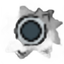
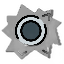
update

diff --git a/monster_shooter/player.py b/monster_shooter/player.py
@@ -8,23 +8,20 @@ def get_player_info():
     strength = 25
     max_ammo = 20
     max_reload_time = 100
-    max_picture_wait_time = 300
-    return name, max_health, strength, max_ammo, max_reload_time, max_picture_wait_time
+    return name, max_health, strength, max_ammo, max_reload_time
 
 class Player:
-    def __init__(self, name, max_health, strength, max_ammo, max_reload_time, max_picture_wait_time, screen_width, screen_height):
+    def __init__(self, name, max_health, strength, max_ammo, max_reload_time):
         self.name = name
         self.max_health = max_health
         self.cur_health = max_health
-        self.health_bar_length = screen_width / 10
+        self.health_bar_length = SCREEN_WIDTH / 10
         self.health_ratio = self.max_health / self.health_bar_length
         self.strength = strength
         self.max_ammo = max_ammo
         self.ammo = max_ammo
         self.max_reload_time = max_reload_time
         self.reload_time = max_reload_time
-        self.max_picture_wait_time = max_picture_wait_time
-        self.picture_wait_time = 0
         self.aim_pic = pygame.image.load("./pictures/aim.png")
         self.shoot_sfx = pygame.mixer.Sound("./sound_effect/shoot_sfx.mp3")
         self.shoot_sfx.set_volume(0.3)
@@ -32,6 +29,10 @@ class Player:
         self.damage_sfx = pygame.mixer.Sound("./sound_effect/damage_sfx.mp3")
         self.bullet_pic = pygame.image.load("./pictures/bullet_hole.png")
         self.bullet_pos = None
+        self.skill_pic = pygame.image.load("./pictures/camera.png")
+        self.health_pic = pygame.image.load("./pictures/health_pic.png")
+        self.strength_pic = pygame.image.load("./pictures/atk_pic.png")
+        self.ammo_pic = pygame.image.load("./pictures/ammo_pic.png")
 
     def is_alive(self):
         return self.cur_health > 0
@@ -39,16 +40,16 @@ class Player:
     def aim_display(self, screen, player_pos):
         screen.blit(self.aim_pic, (player_pos[0]-50, player_pos[1]-50))
     
-    def shoot(self, shoot_flag, monster_pos, monster_pic, player_pos, monster_type, weak_point_pos, weak_point_size):
+    def shoot(self, shoot_flag, monster, player_pos):
         if self.ammo > 0 and shoot_flag:
             self.shoot_sfx.play()
             self.bullet_pos = player_pos
             self.ammo -= 1
-            if player_pos[0] >= monster_pos[0] and player_pos[0] <= monster_pos[0] + monster_pic.get_rect().size[0] and player_pos[1] >= monster_pos[1] and player_pos[1] <= monster_pos[1] + monster_pic.get_rect().size[1]:
-                if monster_type == 0:
+            if player_pos[0] >= monster.pos[0] and player_pos[0] <= monster.pos[0] + monster.pic.get_rect().size[0] and player_pos[1] >= monster.pos[1] and player_pos[1] <= monster.pos[1] + monster.pic.get_rect().size[1]:
+                if monster.type == 0:
                     return self.strength
                 else:
-                    if player_pos[0] >= weak_point_pos[0] and player_pos[0] <= weak_point_pos[0] + weak_point_size and player_pos[1] >= weak_point_pos[1] and player_pos[1] <= weak_point_pos[1] + weak_point_size:
+                    if player_pos[0] >= monster.weak_point_pos[0] and player_pos[0] <= monster.weak_point_pos[0] + monster.weak_point_size and player_pos[1] >= monster.weak_point_pos[1] and player_pos[1] <= monster.weak_point_pos[1] + monster.weak_point_size:
                         return self.strength * 3
                     else:
                         return self.strength
@@ -80,21 +81,16 @@ class Player:
         self.max_reload_time += amount
 
     def take_picture(self, frame):
-        if self.picture_wait_time >= 0:
-            if self.picture_wait_time == 0:
-                pygame.image.save(frame, f"./pictures/{time.time()}.png")
-                self.picture_wait_time = self.max_picture_wait_time
-            self.picture_wait_time -= 1
+        pygame.image.save(frame, f"./pictures/{time.time()}.png")
 
-    def display_info(self, screen, screen_width, screen_height):
+    def display_info(self, screen, picture_wait_time):
         font = pygame.font.Font(None, 36)
-        health_text = font.render(f"Health: ", True, BLUE)
-        screen.blit(health_text, (10, 10))
-        pygame.draw.rect(screen, RED, (health_text.get_width() + 10, 10, self.cur_health / self.health_ratio, int(screen_height / 32)))
-        pygame.draw.rect(screen, BLACK, (health_text.get_width() + 10, 10, self.health_bar_length, int(screen_height / 32)), 4)
-
-        atk_text = font.render(f"Attack: {self.strength}", True, BLUE)
-        screen.blit(atk_text, (10, 50))
+        screen.blit(self.health_pic, (10, 10))
+        pygame.draw.rect(screen, RED, (self.health_pic.get_rect().size[0] + 10, 10 + self.health_pic.get_rect().size[1]/2 - int(SCREEN_HEIGHT / 64) , self.cur_health / self.health_ratio, int(SCREEN_HEIGHT / 32)))
+        pygame.draw.rect(screen, BLACK, (self.health_pic.get_rect().size[0] + 10, 10 + self.health_pic.get_rect().size[1]/2 - int(SCREEN_HEIGHT / 64) , self.cur_health / self.health_ratio, int(SCREEN_HEIGHT / 32)), 4)
+        screen.blit(self.strength_pic, (10, 20 + self.health_pic.get_rect().size[1]))
+        atk_text = font.render(f"{self.strength}", True, BLUE)
+        screen.blit(atk_text, (10 + self.strength_pic.get_rect().size[0] + 10, 20 + self.health_pic.get_rect().size[1] + self.strength_pic.get_rect().size[1]/2 - atk_text.get_height()/2))
         if self.ammo == 0:
             self.reload_time -= 1
             if self.reload_time == 0:
@@ -106,7 +102,14 @@ class Player:
             screen.blit(reload_text, (screen.get_size()[0] - reload_text.get_width() - 10, 10))
         else:              
             font = pygame.font.Font(None, 36)
-            ammo_text = font.render(f"Ammo: {self.ammo} / {self.max_ammo}", True, RED)
-            screen.blit(ammo_text, (screen.get_size()[0] - ammo_text.get_width() - 10, 10))
-        if self.bullet_pos and self.bullet_pos[0] >= 0 and self.bullet_pos[1] >= 0 and self.bullet_pos[0] <= screen_width and self.bullet_pos[1] <= screen_height:
-            screen.blit(self.bullet_pic, (self.bullet_pos[0] - self.bullet_pic.get_rect().size[0] / 2, self.bullet_pos[1] - self.bullet_pic.get_rect().size[1] / 2))
+            screen.blit(self.ammo_pic, (screen.get_size()[0] - self.ammo_pic.get_rect().size[0] - 10, 10))
+            ammo_text = font.render(f"{self.ammo} / {self.max_ammo}", True, RED)
+            screen.blit(ammo_text, (screen.get_size()[0] - ammo_text.get_width() - 10, 20 + self.ammo_pic.get_rect().size[1]))
+        if self.bullet_pos:
+            if self.bullet_pos[0] >= 0 and self.bullet_pos[1] >= 0 and self.bullet_pos[0] <= SCREEN_WIDTH and self.bullet_pos[1] <= SCREEN_HEIGHT:
+                screen.blit(self.bullet_pic, (self.bullet_pos[0] - self.bullet_pic.get_rect().size[0] / 2, self.bullet_pos[1] - self.bullet_pic.get_rect().size[1] / 2))
+        skill_pos = (SCREEN_WIDTH - 5*self.skill_pic.get_rect().size[0]/4, SCREEN_HEIGHT- 5*self.skill_pic.get_rect().size[1]/4)
+        screen.blit(self.skill_pic, skill_pos)
+        picture_text = font.render(f"{int(picture_wait_time/30)} s", True, BLUE)
+        screen.blit(picture_text, (skill_pos[0] + self.skill_pic.get_rect().size[0]/2 - picture_text.get_width()/2, skill_pos[1] - picture_text.get_height() - 10))
+        

diff --git a/monster_shooter/game.py b/monster_shooter/game.py
@@ -14,13 +14,22 @@ post_url = "http://10.10.2.97:8000/game_ended"
 battle_url = "http://10.10.2.97:8000/is_battle"
 
 def fetch_monster_info():
-    monsters_info = req.get(monsters_info_http)
-    return monsters_info.json()
+    try:
+        monsters_info = req.get(monsters_info_http)
+        return monsters_info.json()
+    except:
+        return []
 
 def update_player_info(player):
-    player_info = req.get(player_info_http)
+    try:
+        player_info = req.get(player_info_http)
+    except:
+        player.heal(0)
+        player.gain_strength(0)
+        player.gain_max_ammo(0)
+        player.gain_max_reload_time(0)
+        return
     player_info = player_info.json()[0]
-    print(player_info)
     player.heal(player_info["HP"])
     player.gain_strength(player_info["ATK"])
     player.gain_max_ammo(player_info["MAXAMMO"])
@@ -36,21 +45,20 @@ camera_on = True
 if camera_on:
     cap = cv2.VideoCapture(droid_cam_url) #If you are using DroidCam
     fps = cap.get(cv2.CAP_PROP_FPS)
-    print("fps:", fps)
     cap.set(cv2.CAP_PROP_FPS, FPS)
 
 
 pygame.init()
-screen = pygame.display.set_mode((0, 0), pygame.FULLSCREEN)
-SCREEN_WIDTH, SCREEN_HEIGHT = pygame.display.get_surface().get_size()
+screen = pygame.display.set_mode((SCREEN_WIDTH, SCREEN_HEIGHT))
 pygame.display.set_caption('Monster Shooter')
 clock = pygame.time.Clock()
 
 def main():
     running = True
-    player = Player(*get_player_info(), SCREEN_WIDTH, SCREEN_HEIGHT)
+    player = Player(*get_player_info())
     shoot_flag = True
     fetch_count_down = 0
+    picture_wait_time = 0
     monster_list = []
     cur_monster_index = 0
     idle_flag = True
@@ -73,16 +81,22 @@ def main():
             screen.fill(WHITE)
 
         if gesture == 'observe':
-            player.take_picture(frame)
+            if picture_wait_time == 0:
+                player.take_picture(frame)
+                picture_wait_time = 300
+        if picture_wait_time > 0:        
+            picture_wait_time -= 1
 
         if idle_flag:
             if fetch_count_down == 0:
                 update_player_info(player)
-                is_battle = req.get(battle_url)
-                print(is_battle.text)
+                try:
+                    is_battle = req.get(battle_url)
+                except:
+                    is_battle = "False"
                 if is_battle.text == "True":
                     monster_json = fetch_monster_info()
-                    monster_list = get_monster_info(monster_json, SCREEN_WIDTH, SCREEN_HEIGHT)
+                    monster_list = get_monster_info(monster_json)
                     cur_monster_index = 0
                     idle_flag = False
                 fetch_count_down = 60
@@ -94,15 +108,15 @@ def main():
                 player_pos = pos
                 player.aim_display(screen, player_pos)
                 if gesture == 'shoot':
-                    player.shoot_air(shoot_flag, player_pos)
+                    player.shoot_air(player_pos, shoot_flag)
                     shoot_flag = False
                 else:
                     shoot_flag = True
-            player.display_info(screen, SCREEN_WIDTH, SCREEN_HEIGHT)
+            player.display_info(screen, picture_wait_time)
         else:
             monster = monster_list[cur_monster_index]
             if monster.is_alive():
-                monster.display(screen, SCREEN_WIDTH, SCREEN_HEIGHT)
+                monster.display(screen)
                 player.take_damage(monster.attack(player.cur_health))
                 if not player.is_alive():
                     idle_flag = True
@@ -117,14 +131,14 @@ def main():
                     continue
             if gesture == 'aim' or gesture == 'shoot':
                 player_pos = pos
-                monster.move(player_pos, SCREEN_WIDTH, SCREEN_HEIGHT)
+                monster.move(player_pos)
                 player.aim_display(screen, player_pos)
                 if gesture == 'shoot':
-                    monster.take_damage(player.shoot(shoot_flag, monster.pos, monster.pic, player_pos, monster.monster_type, monster.weak_point_pos, monster.weak_point_size))
+                    monster.take_damage(player.shoot(shoot_flag, monster, player_pos))
                     shoot_flag = False
                 else:
                     shoot_flag = True
-            player.display_info(screen, SCREEN_WIDTH, SCREEN_HEIGHT)
+            player.display_info(screen, picture_wait_time)
 
         pygame.display.flip()
 

diff --git a/monster_shooter/img_matting.py b/monster_shooter/img_matting.py
@@ -1,10 +1,10 @@
 from rembg import remove
 import cv2  
   
-input_path = './pictures/bullet_hole.png' 
-output_path = './pictures/bullet_hole.png'
+input_path = './pictures/camera.png' 
+output_path = './pictures/camera.png'
 input = cv2.imread(input_path)
-output = cv2.resize(input, (64, 64))
+output = cv2.resize(input, (128, 128))
 output = remove(output)
 cv2.imwrite(output_path, output)
 

diff --git a/monster_shooter/test_screen_size.py b/monster_shooter/test_screen_size.py
@@ -1,0 +1,7 @@
+import pygame
+
+#get full screen size
+pygame.init()
+info = pygame.display.Info()
+print(info.current_w, info.current_h)
+pygame.quit()

diff --git a/monster_shooter/setting.py b/monster_shooter/setting.py
@@ -1,3 +1,5 @@
+SCREEN_WIDTH = 1280
+SCREEN_HEIGHT = 660
 WHITE = (255, 255, 255)
 RED = (255, 0, 0)
 BLUE = (0, 0, 255)  
